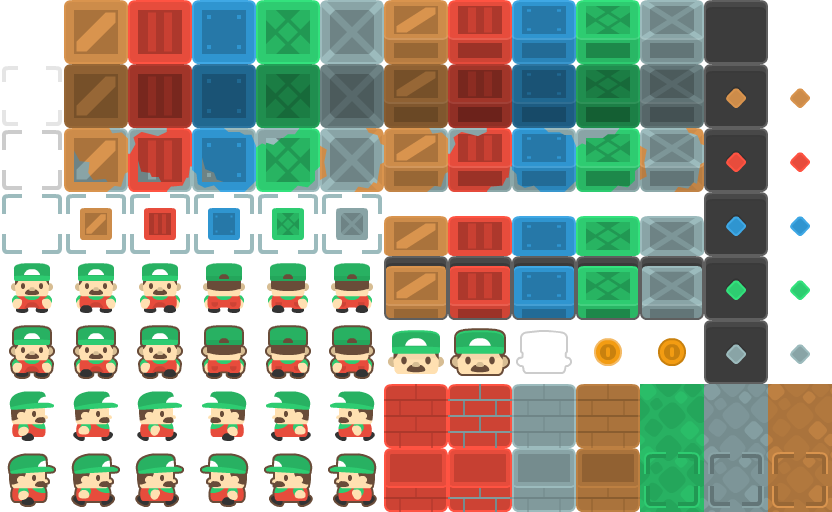
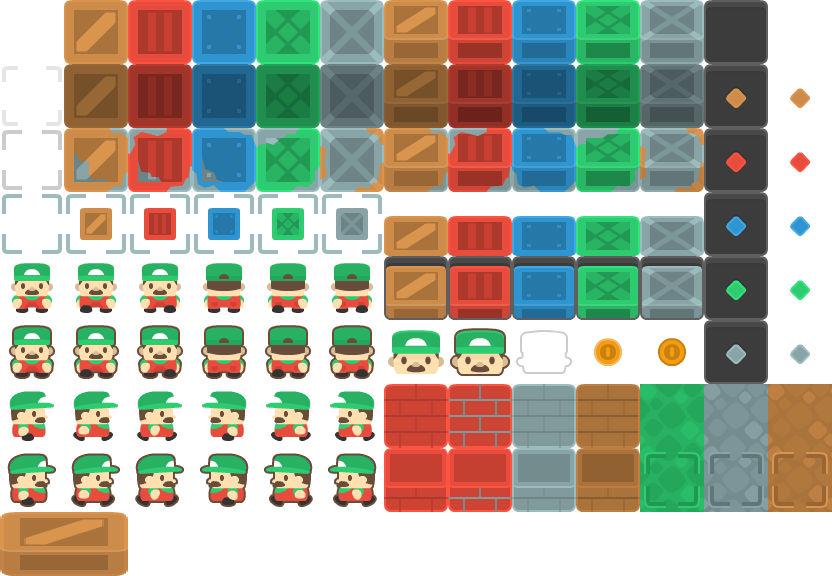
Large box tiles move together - Collision with walls and other boxes not implemented yet

diff --git a/src/scenes/Game.ts b/src/scenes/Game.ts
@@ -1,6 +1,6 @@
 import Phaser from 'phaser';
 import * as Colors from '../consts/Color';
-import { boxToSwitchColor, switchToBoxColor } from '../utils/ColorUtils';
+import { boxToSwitchColor, switchToBoxColor, bigBoxPartner } from '../utils/ColorUtils';
 
 import { sharedInstance as levels } from '../levels/LevelService';
 
@@ -115,7 +115,13 @@ export default class Game extends Phaser.Scene
             Colors.BOX_GREEN,
             Colors.BOX_GREY
         ];
+        // Also extract wide and tall boxes
+        for (const big in Colors.Big) {
+            boxColors.push(Colors.Big[big]);
+        }
+        console.dir(boxColors);
         boxColors.forEach(color => {
+            console.log(color+1);
             this.boxesByColor[color] = layer.createFromTiles(color+1, 0, {key:'tiles', frame:color})
                 .map(box => box.setOrigin(0));
             const switchColor = boxToSwitchColor(color);
@@ -168,6 +174,7 @@ export default class Game extends Phaser.Scene
 
     private isTileAt(x:number, y:number, tileIndex:number)
     {
+        // NOTE: CAN'T BE USED TO CHECK FOR BOXES! (use getBoxAt)
         if (!this.layer) {
             return false;
         }
@@ -217,6 +224,30 @@ export default class Game extends Phaser.Scene
     }
 
 
+    private offsetPosition(x:number, y:number, direction:String)
+    {
+        let newX = x;
+        let newY = y;
+        switch (direction) {
+            case 'left':
+                newX -= 64;
+                break;
+            case 'right':
+                newX += 64;
+                break;                
+            case 'up':
+                newY -= 64;
+                break;
+            case 'down':
+                newY += 64;
+                break;
+            default:
+                break;
+        }
+        return [newX, newY];
+    }
+
+
     private movePlayer(direction:String, playerXOffset:number, playerYOffset:number, tweenX, tweenY)
     {
         if (!this.player) {
@@ -234,58 +265,71 @@ export default class Game extends Phaser.Scene
         let targetY = this.player.y+playerYOffset;
         const boxData = this.getBoxAt(targetX, targetY);
         if (boxData) {
-            const box = boxData.box;
+            const targets = [boxData.box];
             const boxColor = boxData.color;
-            const switchColor = boxToSwitchColor(boxColor);
-            // Make sure the box isn't against a wall
-            switch (direction) {
-                case 'left':
-                    targetX -= 64;
-                    break;
-                case 'right':
-                    targetX += 64;                
-                    break;
-                case 'up':
-                    targetY -= 64;
-                    break;
-                case 'down':
-                    targetY += 64;
-                    break;
-                default:
-                    break;
+            // Recognize wide and tall boxes
+            const lookingFor = bigBoxPartner(boxColor);
+            for (let color in Colors.Big) {
+                if (Colors.Big[color] === boxColor) {
+                    const offsets = [ [-64, 0], [64, 0], [0, -64], [0, 64] ];
+                    offsets.forEach(coord => {
+                        const otherHalf = this.getBoxAt(targetX+coord[0], targetY+coord[1]);
+                        if (otherHalf) {
+                            if (otherHalf.color === lookingFor) {
+                                targets.push(otherHalf.box);
+                                console.dir(targets);    
+                            }
+                        }
+                    });
+                }
             }
-            if (this.isWallAt(targetX, targetY) || this.getBoxAt(targetX, targetY)) {
-                // We're trying to push a box that's already
-                // against a wall or box.
-                return false;
-            }
+            console.dir(targets);
+            // Make sure the box isn't against a wall or another box
+            const twoTilesOver = this.offsetPosition(targetX, targetY, direction);
+            const twoTilesOverX = twoTilesOver[0];
+            const twoTilesOverY = twoTilesOver[1];
+            if (targets.length === 1) {
+                if (this.isWallAt(twoTilesOverX, twoTilesOverY) || this.getBoxAt(twoTilesOverX, twoTilesOverY)) {
+                    return false;
+                }
+            } 
+            // else if (targets.length === 2) {
+            //     // TODO handle big box collision handling
+            //     const threeTilesOver = this.offsetPosition(twoTilesOverX, twoTilesOverY)
+            //     if (this.getBoxAt(twoTilesOverX, twoTilesOverY)) {
+
+            //     }
+            // }
+            
             // Is the box already covering a same-colored switch?
-            const coveredSwitch = this.isTileAt(box.x, box.y, switchColor);
+            const switchColor = boxToSwitchColor(boxColor);
+            const coveredSwitch = this.isTileAt(targets[0].x, targets[0].y, switchColor);
             if (coveredSwitch) {
                 this.changeSwitchCoveredCount(switchColor, -1);
             }
-            // Move the box
-            this.tweens.add({
-                targets: box,
-                x: tweenX,
-                y: tweenY,
-                duration: 375,
-                onComplete: () => {
-                    // Check whether the box is over a same-colored switch
-                    const coveredSwitch = this.isTileAt(box.x, box.y, switchColor);
-                    if (coveredSwitch) {
-                        this.changeSwitchCoveredCount(switchColor, 1);
-                    }
-                    console.dir(this.allSwitchesCovered());
-                    if (this.allSwitchesCovered()) {
-                        // Level complete! Start next level
-                        if (this.currentLevel < levels.getNumLevels()) {
-                            this.scene.start('game', { level: this.currentLevel+1 })
-                        } else {
-                            console.log('No more levels');
+            // Move the box(es)
+            targets.forEach(box => {
+                this.tweens.add({
+                    targets: box,
+                    x: tweenX,
+                    y: tweenY,
+                    duration: 375,
+                    onComplete: () => {
+                        // Check whether the box is over a same-colored switch
+                        const coveredSwitch = this.isTileAt(box.x, box.y, switchColor);
+                        if (coveredSwitch) {
+                            this.changeSwitchCoveredCount(switchColor, 1);
+                        }
+                        if (this.allSwitchesCovered()) {
+                            // Level complete! Start next level
+                            if (this.currentLevel < levels.getNumLevels()) {
+                                this.scene.start('game', { level: this.currentLevel+1 })
+                            } else {
+                                console.log('No more levels');
+                            }
                         }
                     }
-                }
+                });
             });
         }
         // Move the player
@@ -306,45 +350,6 @@ export default class Game extends Phaser.Scene
                 this.sound.stopByKey('error');
             }
         });
-    }
-
-
-    private moveBox(direction:String, playerXOffset:number, playerYOffset:number, tweenX, tweenY)
-    {
-        if (!this.player) {
-            return;
-        }
-        let targetX = this.player.x+playerXOffset;
-        let targetY = this.player.y+playerYOffset;
-        const box = this.getBoxAt(targetX, targetY);
-        if (box) {
-            // Make sure box isn't against a wall
-            switch (direction) {
-                case 'left':
-                    targetX -= 64;
-                    break;
-                case 'right':
-                    targetX += 64;                
-                    break;
-                case 'up':
-                    targetY -= 64;
-                    break;
-                case 'down':
-                    targetY += 64;
-                    break;
-                default:
-                    break;
-            }
-            if (!this.isWallAt(targetX, targetY)) {
-                // Move the box
-                this.tweens.add({
-                    targets: box,
-                    x: tweenX,
-                    y: tweenY,
-                    duration: 400
-                });    
-            }
-        }
     }
 
 

diff --git a/src/utils/ColorUtils.ts b/src/utils/ColorUtils.ts
@@ -1,9 +1,12 @@
 import * as Color from "../consts/Color";
 
+
 const boxToSwitchColor = (boxColor: number) => {
     switch (boxColor) {
         default: // could cause a bug
         case Color.BOX_ORANGE:
+        case Color.Big.ORANGE_1:
+        case Color.Big.ORANGE_2:
             return Color.SWITCH_ORANGE;
         case Color.BOX_RED:
             return Color.SWITCH_RED;
@@ -16,7 +19,9 @@ const boxToSwitchColor = (boxColor: number) => {
     }
 };
 
+
 const switchToBoxColor = (switchColor: number) => {
+    /* TODO: Convert to long box? */
     switch (switchColor) {
         default:
         case Color.SWITCH_ORANGE:
@@ -32,6 +37,19 @@ const switchToBoxColor = (switchColor: number) => {
     }
 };
 
+
+const bigBoxPartner = (boxColor: number) => {
+    switch (boxColor) {
+        case Color.Big.ORANGE_1:
+            return Color.Big.ORANGE_2;
+        case Color.Big.ORANGE_2:
+            return Color.Big.ORANGE_1;
+        default: // boxColor isn't a wide or tall box...
+            return -1;
+    }
+};
+
+
 export {
-    boxToSwitchColor, switchToBoxColor
-}
+    boxToSwitchColor, switchToBoxColor, bigBoxPartner
+};

diff --git a/src/consts/Color.ts b/src/consts/Color.ts
@@ -10,7 +10,13 @@ const SWITCH_BLUE = 51;
 const SWITCH_GREEN = 64;
 const SWITCH_GREY = 77;
 
+const Big = {
+    ORANGE_1: 104,
+    ORANGE_2: 105
+};
+
 export {
     BOX_ORANGE, BOX_RED, BOX_BLUE, BOX_GREEN, BOX_GREY,
-    SWITCH_ORANGE, SWITCH_RED, SWITCH_BLUE, SWITCH_GREEN, SWITCH_GREY
+    SWITCH_ORANGE, SWITCH_RED, SWITCH_BLUE, SWITCH_GREEN, SWITCH_GREY,
+    Big
 };
